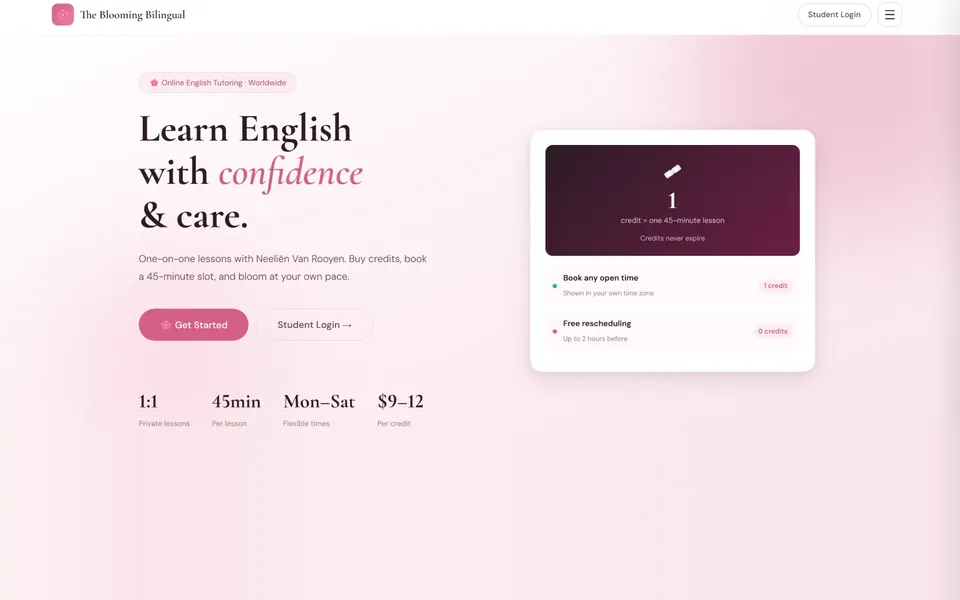
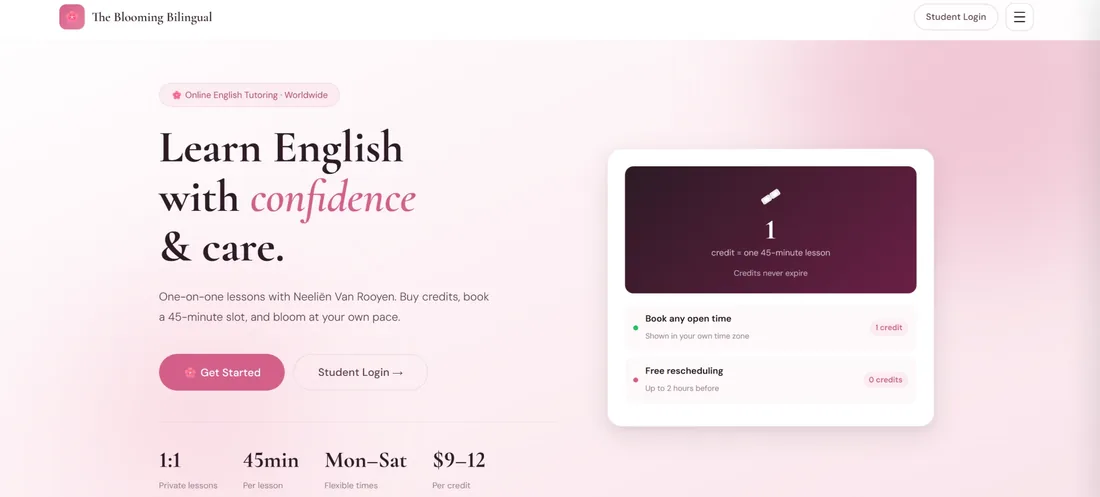
Show portfolio screenshots inside a browser frame so the site's navigation is fully visible
Claude-Session: https://claude.ai/code/session_01UQ7kCAqGcuMibxd5HC5zc2

diff --git a/src/App.jsx b/src/App.jsx
@@ -1494,6 +1494,30 @@ function WhyChooseUs() {
 }
 
 /* ===== components/Portfolio.jsx ===== */
+// A real site screenshot inside a small browser window, so the page's own navigation bar stays fully visible.
+function BrowserShot({ project }) {
+  const host = project.url ? new URL(project.url).hostname.replace(/^www\./, "") : "";
+  return (
+    <div className="flex h-full w-full items-center justify-center bg-gradient-to-br from-slate-100 to-slate-200 px-[4%]">
+      <div className="w-full overflow-hidden rounded-lg bg-white shadow-[0_10px_30px_-8px_rgba(15,23,42,0.35)] ring-1 ring-slate-900/10">
+        <div className="flex items-center gap-1.5 border-b border-slate-200 bg-slate-50 px-2.5 py-1.5">
+          <span className="h-1.5 w-1.5 rounded-full bg-slate-300" />
+          <span className="h-1.5 w-1.5 rounded-full bg-slate-300" />
+          <span className="h-1.5 w-1.5 rounded-full bg-slate-300" />
+          <span className="ml-2 truncate rounded bg-white px-2 py-0.5 text-[9px] leading-none text-slate-400 ring-1 ring-slate-200">{host}</span>
+        </div>
+        <img
+          src={project.screenshot}
+          alt={`${project.name} website`}
+          loading="lazy"
+          decoding="async"
+          className="block h-auto w-full"
+        />
+      </div>
+    </div>
+  );
+}
+
 function ViewProject({ project }) {
   const cls =
     "absolute bottom-3 left-3 inline-flex h-9 items-center rounded-full bg-slate-900 px-[9px] text-white shadow-lg transition-colors duration-300 hover:bg-blue-600 group-hover:bg-blue-600";
@@ -1526,15 +1550,7 @@ function ProjectCard({ project, i }) {
         <div className="relative overflow-hidden rounded-2xl shadow-sm ring-1 ring-slate-200 transition-all duration-500 group-hover:-translate-y-1 group-hover:shadow-xl" style={{ aspectRatio: "16 / 10" }}>
           <div className="absolute inset-0 transition-transform duration-700 ease-out group-hover:scale-[1.04]">
             {project.screenshot ? (
-              <img
-                src={project.screenshot}
-                alt={`${project.name} website`}
-                width={960}
-                height={600}
-                loading="lazy"
-                decoding="async"
-                className="h-full w-full object-cover object-top"
-              />
+              <BrowserShot project={project} />
             ) : (
               <SiteThumb project={project} />
             )}
